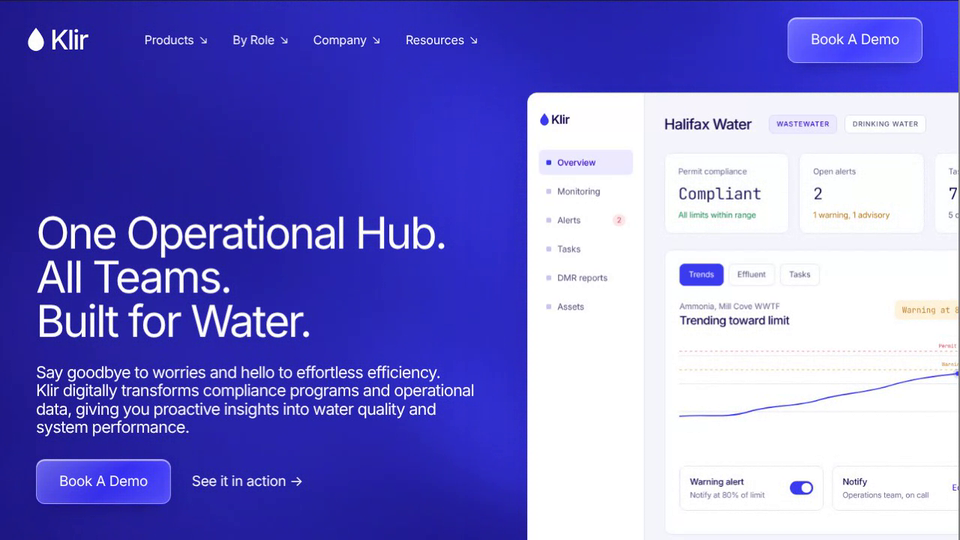
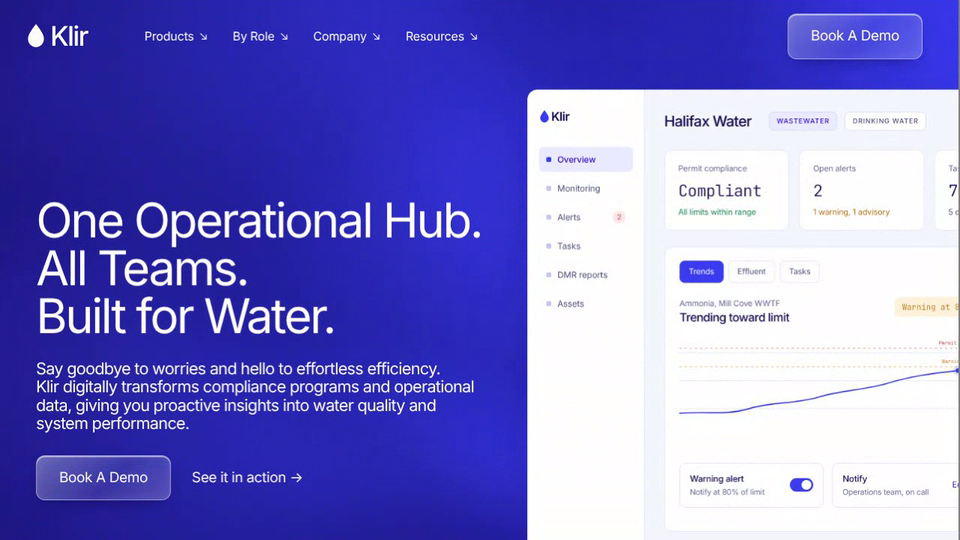
Klir Side Reveal: slightly bigger headline, more space above Customers (#558)
* Add Klir Landing Page, Side Reveal: dashboard peeks in from the right and slides to centre on scroll

Claude-Session: https://claude.ai/code/session_01AHeBdyKiiUaJC1VuNiJRth

* Klir side reveal: pin the hero while the dashboard slides in, smaller headline, dashboard rests further left

Claude-Session: https://claude.ai/code/session_01AHeBdyKiiUaJC1VuNiJRth

* Klir side reveal: taller hero background so it runs behind the whole dashboard

Claude-Session: https://claude.ai/code/session_01AHeBdyKiiUaJC1VuNiJRth

* Klir side reveal: dashboard rests further left, more space before the customers section

Claude-Session: https://claude.ai/code/session_01AHeBdyKiiUaJC1VuNiJRth

* Klir side reveal: eased, frame-by-frame dashboard motion on scroll

Claude-Session: https://claude.ai/code/session_01AHeBdyKiiUaJC1VuNiJRth

* Klir side reveal: dashboard rests smaller and fully visible, slides and scales to centre; more blue under it

Claude-Session: https://claude.ai/code/session_01AHeBdyKiiUaJC1VuNiJRth

* Klir side reveal: dashboard bleeds off the right edge, bigger, 45% of the screen

Claude-Session: https://claude.ai/code/session_01AHeBdyKiiUaJC1VuNiJRth

* Klir side reveal: smaller hero text, faster reveal scroll, tighter spacing under the dashboard

Claude-Session: https://claude.ai/code/session_01AHeBdyKiiUaJC1VuNiJRth

* Klir side reveal: close the gap above the Customers section

Claude-Session: https://claude.ai/code/session_01AHeBdyKiiUaJC1VuNiJRth
[…]

diff --git a/klir-landing-page-side-reveal/index.html b/klir-landing-page-side-reveal/index.html
@@ -27,7 +27,7 @@ nav.back b{font-weight:500;color:#fff;overflow:hidden;text-overflow:ellipsis}
 header.site{position:absolute;top:0;left:0;right:0;z-index:3;display:flex;align-items:center;gap:36px;padding:22px 48px 22px 35px}
 .logo{text-decoration:none;display:flex;align-items:center;gap:6px;font-weight:500;font-size:36px;letter-spacing:-.05em;color:#fff}
 header.site .links{display:flex;gap:34px;font-size:16px;margin-right:auto;margin-left:40px;letter-spacing:-.01em}
-.hero h1{color:#fff;font-weight:300;font-size:clamp(32px,4.6vw,66px);line-height:1;letter-spacing:-.045em;max-width:12em;white-space:nowrap}
+.hero h1{color:#fff;font-weight:300;font-size:clamp(34px,5vw,72px);line-height:1;letter-spacing:-.045em;max-width:12em;white-space:nowrap}
 .hero .sub{font-size:clamp(17px,1.7vw,23px);line-height:1.12;letter-spacing:-.035em;max-width:min(27em,50vw);margin-top:26px}
 .hero .cta{margin-top:30px;align-items:center;gap:28px}
 .btn{display:inline-block;background:var(--blue);color:#fff;text-decoration:none;font-weight:400;font-size:19px;letter-spacing:-.02em;padding:15px 30px;border-radius:6px;transition:background .2s}
@@ -332,7 +332,7 @@ function layout(){
   nodes=[...document.querySelectorAll('.eyebrow.node')].map(e=>{const r=e.getBoundingClientRect();return{y:r.top-m.top+r.height/2,el:e}});
   $('nodes').innerHTML=nodes.map((n,i)=>`<g id="n${i}" opacity="0" style="transition:opacity .35s"><use href="#drop" transform="translate(${X} ${n.y+1}) scale(1.1)" fill="#fafbff" stroke="#fafbff" stroke-width="7" stroke-linejoin="round"/><use href="#drop" transform="translate(${X} ${n.y+1}) scale(1.1)" fill="#fff" stroke="#3b3bef" stroke-width="1.7"/></g>`).join('');
   LT=Math.max(HB,(nodes[0]?nodes[0].y:HB)-60);$('solid').setAttribute('y1',LT);$('solid').setAttribute('y2',H);const fg=$('fade');fg.setAttribute('y1',LT);fg.setAttribute('y2',H);
-  {const u=$('ui'),vw=wrap.clientWidth,sm=vw<=820;UN=wrap.offsetTop+u.offsetTop;SY=49+HB*(sm?.3:.17);EY=Math.max(sm?70:90,innerHeight*.125);SC0=sm?.9:.82;TX0=vw*(sm?.6:.55)-u.offsetLeft;BH=Math.max(EY+u.offsetHeight+50,innerHeight);const mb=Math.round(70-(UN-EY-HB*.5))+'px';if(u.style.marginBottom!=mb)u.style.marginBottom=mb}
+  {const u=$('ui'),vw=wrap.clientWidth,sm=vw<=820;UN=wrap.offsetTop+u.offsetTop;SY=49+HB*(sm?.3:.17);EY=Math.max(sm?70:90,innerHeight*.125);SC0=sm?.9:.82;TX0=vw*(sm?.6:.55)-u.offsetLeft;BH=Math.max(EY+u.offsetHeight+50,innerHeight);const mb=Math.round(140-(UN-EY-HB*.5))+'px';if(u.style.marginBottom!=mb)u.style.marginBottom=mb}
   tick();
 }
 function tick(){
